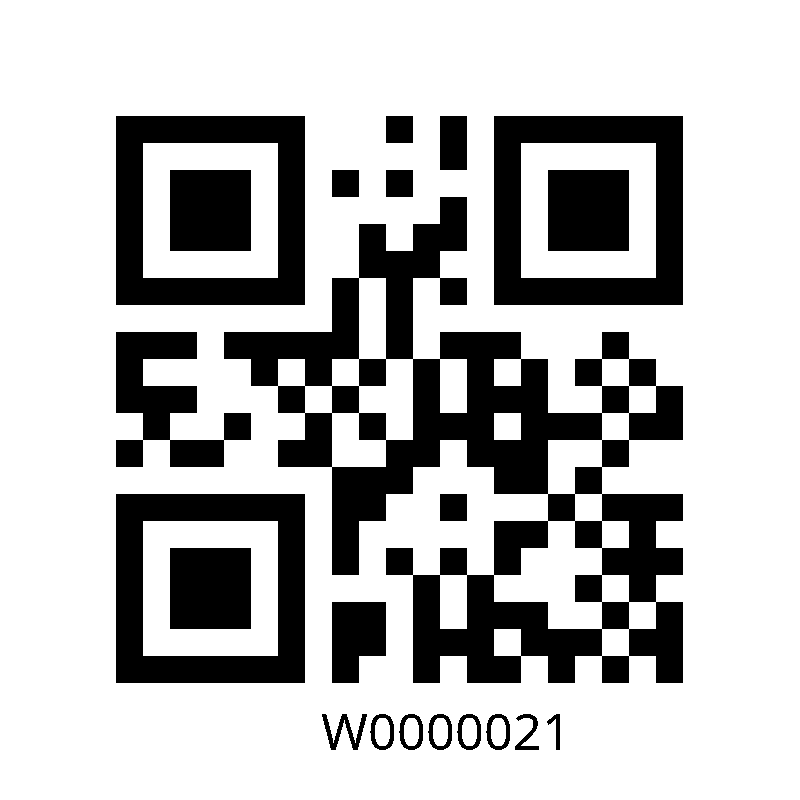
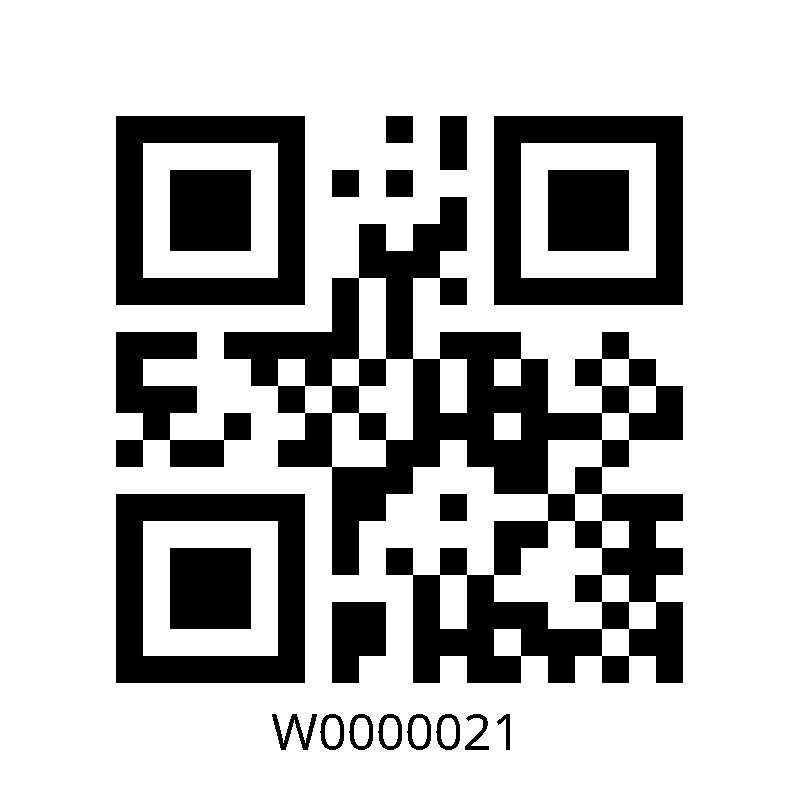
feat: 条形码底部加文字

Changed region(s): [[0.3438, 0.875, 0.7188, 0.9375]]

diff --git a/src/main/java/org/yangxin/test/zxing/CreateQRCodeWithWords.java b/src/main/java/org/yangxin/test/zxing/CreateQRCodeWithWords.java
@@ -20,17 +20,18 @@ import java.util.Map;
  * @author yangxin
  * 2020/06/30 16:30
  */
-public class QrCodeCreateUtil {
+public class CreateQRCodeWithWords {
 
     /**
      * 生成包含字符串信息的二维码图片
      *
      * @param outputStream 文件输出流路径
-     * @param content 二维码携带信息
-     * @param qrCodeSize 二维码图片大小
-     * @param imageFormat 二维码格式
+     * @param content      二维码携带信息
+     * @param qrCodeSize   二维码图片大小
+     * @param imageFormat  二维码格式
      */
-    public static boolean createQrCode(OutputStream outputStream, String content, int qrCodeSize, String imageFormat) {
+    @SuppressWarnings("SuspiciousNameCombination")
+    public static void createQrCode(OutputStream outputStream, String content, int qrCodeSize, String imageFormat) {
         // 设置二维码纠错级别Map
         Map<EncodeHintType, ErrorCorrectionLevel> hintMap = new HashMap<>();
         // 纠错级别
@@ -43,9 +44,11 @@ public class QrCodeCreateUtil {
 
             // 使用BufferedImage勾画QRCode（matrixWidth是行二维码像素点）
             int matrixWidth = bitMatrix.getWidth();
-            BufferedImage bufferedImage = new BufferedImage(matrixWidth - 200, matrixWidth - 200, BufferedImage.TYPE_INT_RGB);
-            bufferedImage.createGraphics();
-            Graphics2D graphics2D = (Graphics2D) bufferedImage.getGraphics();
+            BufferedImage bufferedImage = new BufferedImage(matrixWidth - 200,
+                    matrixWidth - 200,
+                    BufferedImage.TYPE_INT_RGB);
+            Graphics2D graphics2D = bufferedImage.createGraphics();
+//            Graphics2D graphics2D = (Graphics2D) bufferedImage.getGraphics();
             graphics2D.setColor(Color.WHITE);
             graphics2D.fillRect(0, 0, matrixWidth, matrixWidth);
 
@@ -60,42 +63,50 @@ public class QrCodeCreateUtil {
             }
             bufferedImage.flush();
 
-            BufferedImage outImage = new BufferedImage(800, 800, BufferedImage.TYPE_INT_ARGB);
+//            ImageIO.write(bufferedImage, imageFormat, outputStream);
+
+            BufferedImage outImage = new BufferedImage(800, 800, BufferedImage.TYPE_INT_RGB);
+//            BufferedImage outImage = new BufferedImage(800, 800, BufferedImage.TYPE_INT_ARGB);
             Graphics2D outImageGraphics = outImage.createGraphics();
             outImageGraphics.setColor(Color.WHITE);
             outImageGraphics.fillRect(0, 0, 800, 800);
             outImageGraphics.setColor(Color.BLACK);
 
             // 画二维码到新的面板
-            outImageGraphics.drawImage(bufferedImage, 100, 100, bufferedImage.getWidth(), bufferedImage.getHeight(), null);
-
+            outImageGraphics.drawImage(bufferedImage,
+                    100,
+                    100,
+                    bufferedImage.getWidth(),
+                    bufferedImage.getHeight(), null);
+//
             // 画文字到新的面板
             // 字体、字型、字号
             Font font = new Font("宋体", Font.PLAIN, 50);
             outImageGraphics.setFont(font);
 
             // 文字长度
+//            int strWidth = outImageGraphics.getFontMetrics().stringWidth("B0000001");
             int strWidth = graphics2D.getFontMetrics().stringWidth("B0000001");
             // 总长度减去文字长度的一般（居中显示）
-            int wordStartX = (700 - strWidth) / 2;
+            int wordStartX = (600 - strWidth) / 2;
+//            int wordStartX = (700 - strWidth) / 2;
             // 画文字
             outImageGraphics.drawString(content, wordStartX, 750);
             outImage.flush();
-
-            return ImageIO.write(outImage, imageFormat, outputStream);
+//
+            ImageIO.write(outImage, imageFormat, outputStream);
         } catch (WriterException | IOException e) {
             e.printStackTrace();
         }
 
-        return false;
     }
 
-    public static String getWillNo(String no) {
-        String s = no.substring(0, 6);
-        int willNo = Integer.parseInt(no.substring(6, 8));
-
-        return s + willNo + 1;
-    }
+//    public static String getWillNo(String no) {
+//        String s = no.substring(0, 6);
+//        int willNo = Integer.parseInt(no.substring(6, 8));
+//
+//        return s + willNo + 1;
+//    }
 
     public static void main(String[] args) throws FileNotFoundException {
         System.out.println("W0000021");

diff --git a/src/main/java/org/yangxin/test/zxing/CreateBarcodeWithWords.java b/src/main/java/org/yangxin/test/zxing/CreateBarcodeWithWords.java
@@ -1,0 +1,80 @@
+package org.yangxin.test.zxing;
+
+import com.google.zxing.BarcodeFormat;
+import com.google.zxing.WriterException;
+import com.google.zxing.common.BitMatrix;
+import com.google.zxing.oned.Code128Writer;
+
+import javax.imageio.ImageIO;
+import java.awt.*;
+import java.awt.image.BufferedImage;
+import java.io.File;
+import java.io.IOException;
+import java.util.HashMap;
+
+/**
+ * 生成条码号，底部带文字
+ *
+ * @author yangxin
+ * 2020/07/01 09:05
+ */
+public class CreateBarcodeWithWords {
+
+    public static void main(String[] args) {
+        Code128Writer code128Writer = new Code128Writer();
+        try {
+            BitMatrix bitMatrix = code128Writer.encode("uzi is god forever!",
+                    BarcodeFormat.CODE_128,
+                    264,
+                    48,
+                    new HashMap<>());
+
+            // 使用BufferedImage勾画Barcode
+            int width = bitMatrix.getWidth();
+            int height = bitMatrix.getHeight();
+            BufferedImage bufferedImage = new BufferedImage(width,
+                    height,
+                    BufferedImage.TYPE_INT_RGB);
+            Graphics2D graphics2D = bufferedImage.createGraphics();
+            graphics2D.setColor(Color.WHITE);
+            graphics2D.fillRect(0, 0, width, height);
+
+            // 使用比特矩阵画并保存图像
+            graphics2D.setColor(Color.BLACK);
+            for (int i = 0; i < width; i++) {
+                for (int j = 0; j < height; j++) {
+                    if (bitMatrix.get(i, j)) {
+                        graphics2D.fillRect(i, j, 1, 1);
+                    }
+                }
+            }
+            bufferedImage.flush();
+
+            // 新的图片
+            BufferedImage outImage = new BufferedImage(270, 60, BufferedImage.TYPE_INT_RGB);
+            Graphics2D outImageGraphics = outImage.createGraphics();
+            outImageGraphics.setColor(Color.WHITE);
+            outImageGraphics.fillRect(0, 0, 270, 60);
+            outImageGraphics.setColor(Color.BLACK);
+
+            // 画二维码到新的面板
+            outImageGraphics.drawImage(bufferedImage, 5, 5, 264, 48, null);
+
+            // 画文字到新的面板
+            // 字体、字型、字号
+            Font font = new Font("微软雅黑", Font.PLAIN, 8);
+            outImageGraphics.setFont(font);
+
+            // 文字长度
+            int strWidth = graphics2D.getFontMetrics().stringWidth("uzi is god forever!");
+            // 总长度减去文字长度的一般（居中显示）
+            int wordStartX = (300 - strWidth) / 2;
+            outImageGraphics.drawString("20154206110", wordStartX, 60);
+            outImage.flush();
+
+            ImageIO.write(outImage, "PNG", new File("image/barcodeWithWords.png"));
+        } catch (WriterException | IOException e) {
+            e.printStackTrace();
+        }
+    }
+}

diff --git a/src/main/java/org/yangxin/test/zxing/CreateQRCode.java b/src/main/java/org/yangxin/test/zxing/CreateQRCode.java
@@ -38,7 +38,7 @@ public class CreateQRCode {
         try {
             BitMatrix bitMatrix = new MultiFormatWriter()
                     .encode(content, BarcodeFormat.QR_CODE, width, height, hintMap);
-            Path path = new File("qrcode.png").toPath();
+            Path path = new File("image/qrcode.png").toPath();
             MatrixToImageWriter.writeToPath(bitMatrix, format, path);
         } catch (WriterException | IOException e) {
             e.printStackTrace();
